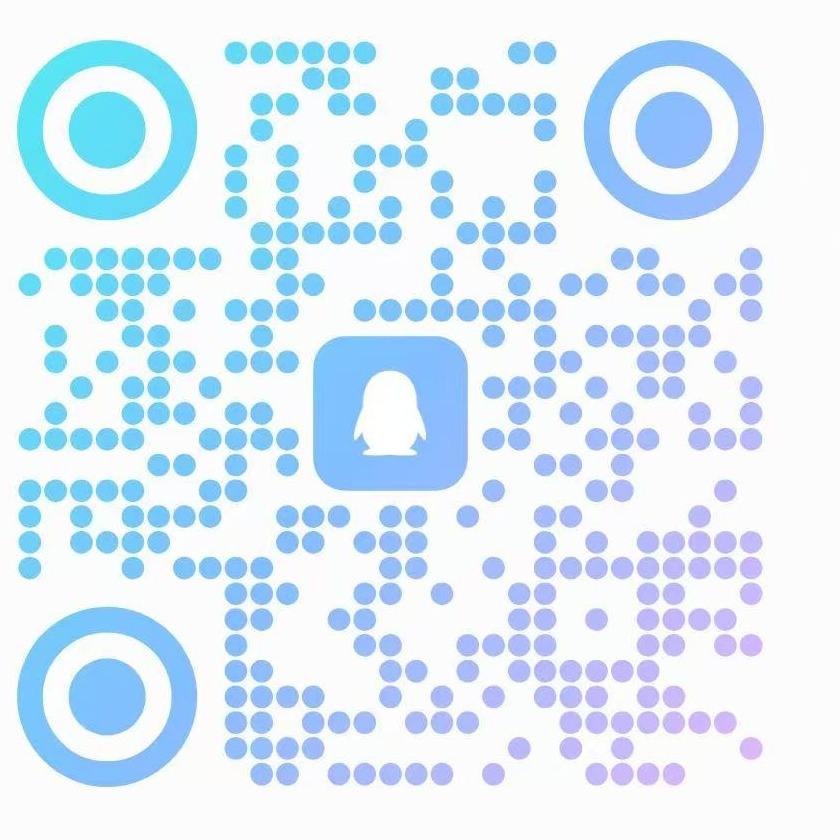
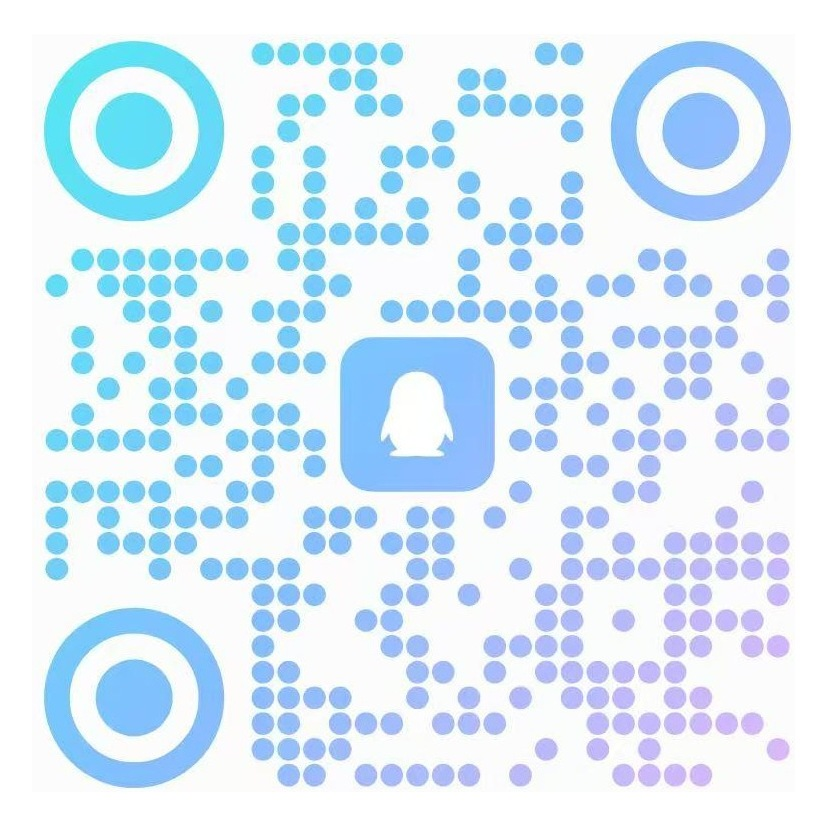
优化首页考研交流群二维码截图居中裁剪，放大预览改为contain显示

diff --git a/index.html b/index.html
@@ -219,7 +219,7 @@ h1,h2,h3{font-weight:700;color:#17191d;text-shadow:0 0 8px rgba(169,33,34,0.2);}
 @media(max-width:768px){.filter-bar{position:sticky;top:0;z-index:25;padding:8px 0;overflow-x:auto;white-space:nowrap;-webkit-overflow-scrolling:touch;}}
 .qr-lightbox-overlay{position:fixed;inset:0;background:rgba(0,0,0,0.85);z-index:9999;display:none;align-items:center;justify-content:center;cursor:zoom-out;}
 .qr-lightbox-overlay.active{display:flex;}
-.qr-lightbox-overlay img{width:300px;height:300px;border-radius:12px;box-shadow:0 8px 32px rgba(0,0,0,0.5);border:4px solid #fff;}
+.qr-lightbox-overlay img{width:300px;height:300px;object-fit:contain;border-radius:12px;box-shadow:0 8px 32px rgba(0,0,0,0.5);border:4px solid #fff;background:#fff;}
 
 @media(max-width:768px){
   #detailPage .container{padding:0 !important;}
